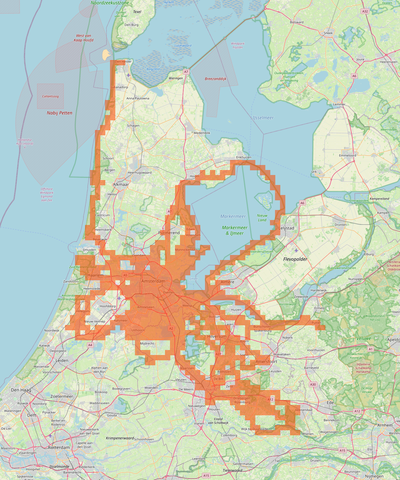
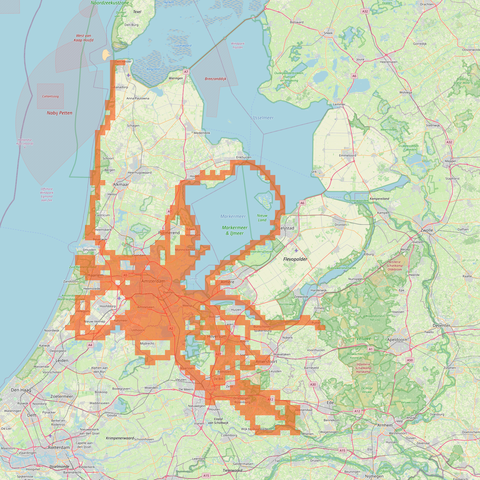
Add Mt Rinjani peak override; square the squadrats map; rank countries by tile count
Summit Bag never tagged Mt Rinjani (Lombok) in the Strava description for
its summit-day activity, despite the GPS elevation matching its real
3,726m summit - added a manual override keyed to that activity ID so it
shows up alongside the rest of the bagged peaks.

The squadrats map image was a rectangle shaped by whatever bounding box
the largest tile cluster happened to have. Background map tiles are now
padded symmetrically on the shorter side to make the canvas square,
without cropping any visited squares.

Top countries now rank and display by absolute explorer-tile count
instead of percentage completion, so well-explored large countries
(Netherlands, UK) surface ahead of small nearly-complete ones.

diff --git a/_includes/frags/squadrats.html b/_includes/frags/squadrats.html
@@ -22,7 +22,7 @@
           {% for c in sq.country_completion limit:5 %}
             <li>
               {{ c.name }}
-              <span class="lfm-sub">{{ c.pct }}% &middot; {{ c.visited }} / {{ c.total }} tiles</span>
+              <span class="lfm-sub">{{ c.visited }} tiles &middot; {{ c.pct }}% of country</span>
             </li>
           {% endfor %}
         </ol>

diff --git a/scripts/update_summitbag_stats.py b/scripts/update_summitbag_stats.py
@@ -112,6 +112,16 @@ API_BASE = "https://www.strava.com/api/v3"
 PEAK_RE = re.compile(r"⛰\s*([^•\n]+?)\s*\(\s*([\d,]+)\s*m\s*\)")
 ELEVATION_RE = re.compile(r"⬆\s*(\d{4})\s*=\s*([\d,]+)\s*m")
 
+# Summit Bag's peak database doesn't cover Mt Rinjani (Lombok, Indonesia) -
+# no "⛰" segment was ever appended to these activities' descriptions, even
+# though the GPS elevation (elev_high on the summit-day activity) matches
+# Rinjani's real 3,726m summit almost exactly. Filled in manually rather
+# than left as a permanent gap. Keyed by Strava activity_id, not name, so
+# it applies only to that specific ascent.
+MANUAL_PEAK_OVERRIDES = {
+    14351074800: [("Mt Rinjani", 3726)],  # "Mt Rinjani Day 2" - Crater Rim - Summit - Crater Lake
+}
+
 RUN_TYPES = {"Run", "TrailRun", "VirtualRun"}
 RIDE_TYPES = {"Ride", "MountainBikeRide", "GravelRide", "EBikeRide", "VirtualRide", "Velomobile", "Handcycle"}
 HIKE_TYPES = {"Hike", "Walk", "Snowshoe"}
@@ -404,6 +414,7 @@ ACTIVITY_FIELDS = (
 def process_activity(state, summary):
     detail = get_activity_detail(summary["id"])
     peaks, elevation_reading = parse_description(detail.get("description"))
+    peaks = peaks + MANUAL_PEAK_OVERRIDES.get(detail.get("id"), [])
     sport_type = summary.get("sport_type") or summary.get("type", "Other")
     bucket = bucket_for(sport_type)
     date = summary["start_date"][:10]

diff --git a/scripts/update_squadrats_stats.py b/scripts/update_squadrats_stats.py
@@ -353,7 +353,7 @@ def compute_country_completion(visited, countries):
             "pct": round(len(tiles) / total * 100, 1),
         })
 
-    results.sort(key=lambda r: r["pct"], reverse=True)
+    results.sort(key=lambda r: r["visited"], reverse=True)
     return results, visited_by_country
 
 
@@ -405,6 +405,21 @@ def render_map_overlay(tiles, pad=1):
     bg_max_y = math.floor((max_y + pad) / factor)
     bg_grid_w = bg_max_x - bg_min_x + 1
     bg_grid_h = bg_max_y - bg_min_y + 1
+
+    # Pad the shorter side so the final image is square, splitting the extra
+    # background tiles evenly on both sides rather than cropping anything -
+    # every visited square still needs to show, just the canvas around them
+    # grows to keep the cluster centered.
+    if bg_grid_w < bg_grid_h:
+        extra = bg_grid_h - bg_grid_w
+        bg_min_x -= extra // 2
+        bg_max_x += extra - extra // 2
+        bg_grid_w = bg_grid_h
+    elif bg_grid_h < bg_grid_w:
+        extra = bg_grid_w - bg_grid_h
+        bg_min_y -= extra // 2
+        bg_max_y += extra - extra // 2
+        bg_grid_h = bg_grid_w
 
     base = Image.new("RGBA", (bg_grid_w * OSM_TILE_PX, bg_grid_h * OSM_TILE_PX), (255, 255, 255, 255))
     for gx in range(bg_grid_w):
